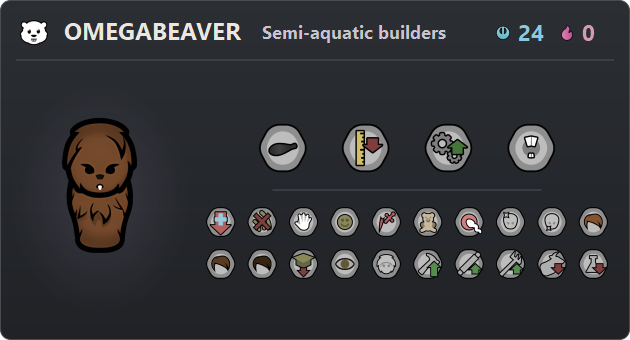
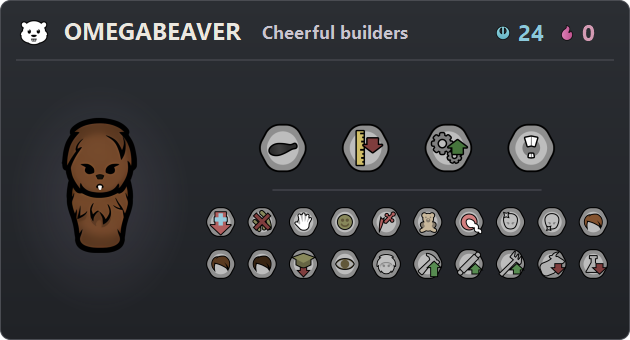
Change omegabeaver short description

Changed region(s): [[0.3921, 0.0588, 0.7238, 0.1176]]

diff --git a/XylXenos/CONTENT.md b/XylXenos/CONTENT.md
@@ -58,7 +58,7 @@ Minor xenotypes are found as rare members of other factions or in random events.
 
 #### Omegabeaver
 
-Semi-aquatic builders. They move fast in water and are great at logging and construction, but poor at combat.
+Cheerful builders. They move fast in water and are great at logging and construction, but poor at combat.
 
 Omegabeavers are excellent workers, easy to keep happy, and cute mascots for the rest of your colony. They're also absolutely terrible at combat.
 

diff --git a/XylXenos/Data/About/README.md b/XylXenos/Data/About/README.md
@@ -56,7 +56,7 @@ Optional DLC unlocks additional content:
 
 ### Omegabeaver
 
-![Omegabeaver — Semi-aquatic builders](../Docs/Images/XenotypeCards/omegabeaver-card.png)
+![Omegabeaver — Cheerful builders](../Docs/Images/XenotypeCards/omegabeaver-card.png)
 
 ### Scaleborn
 
